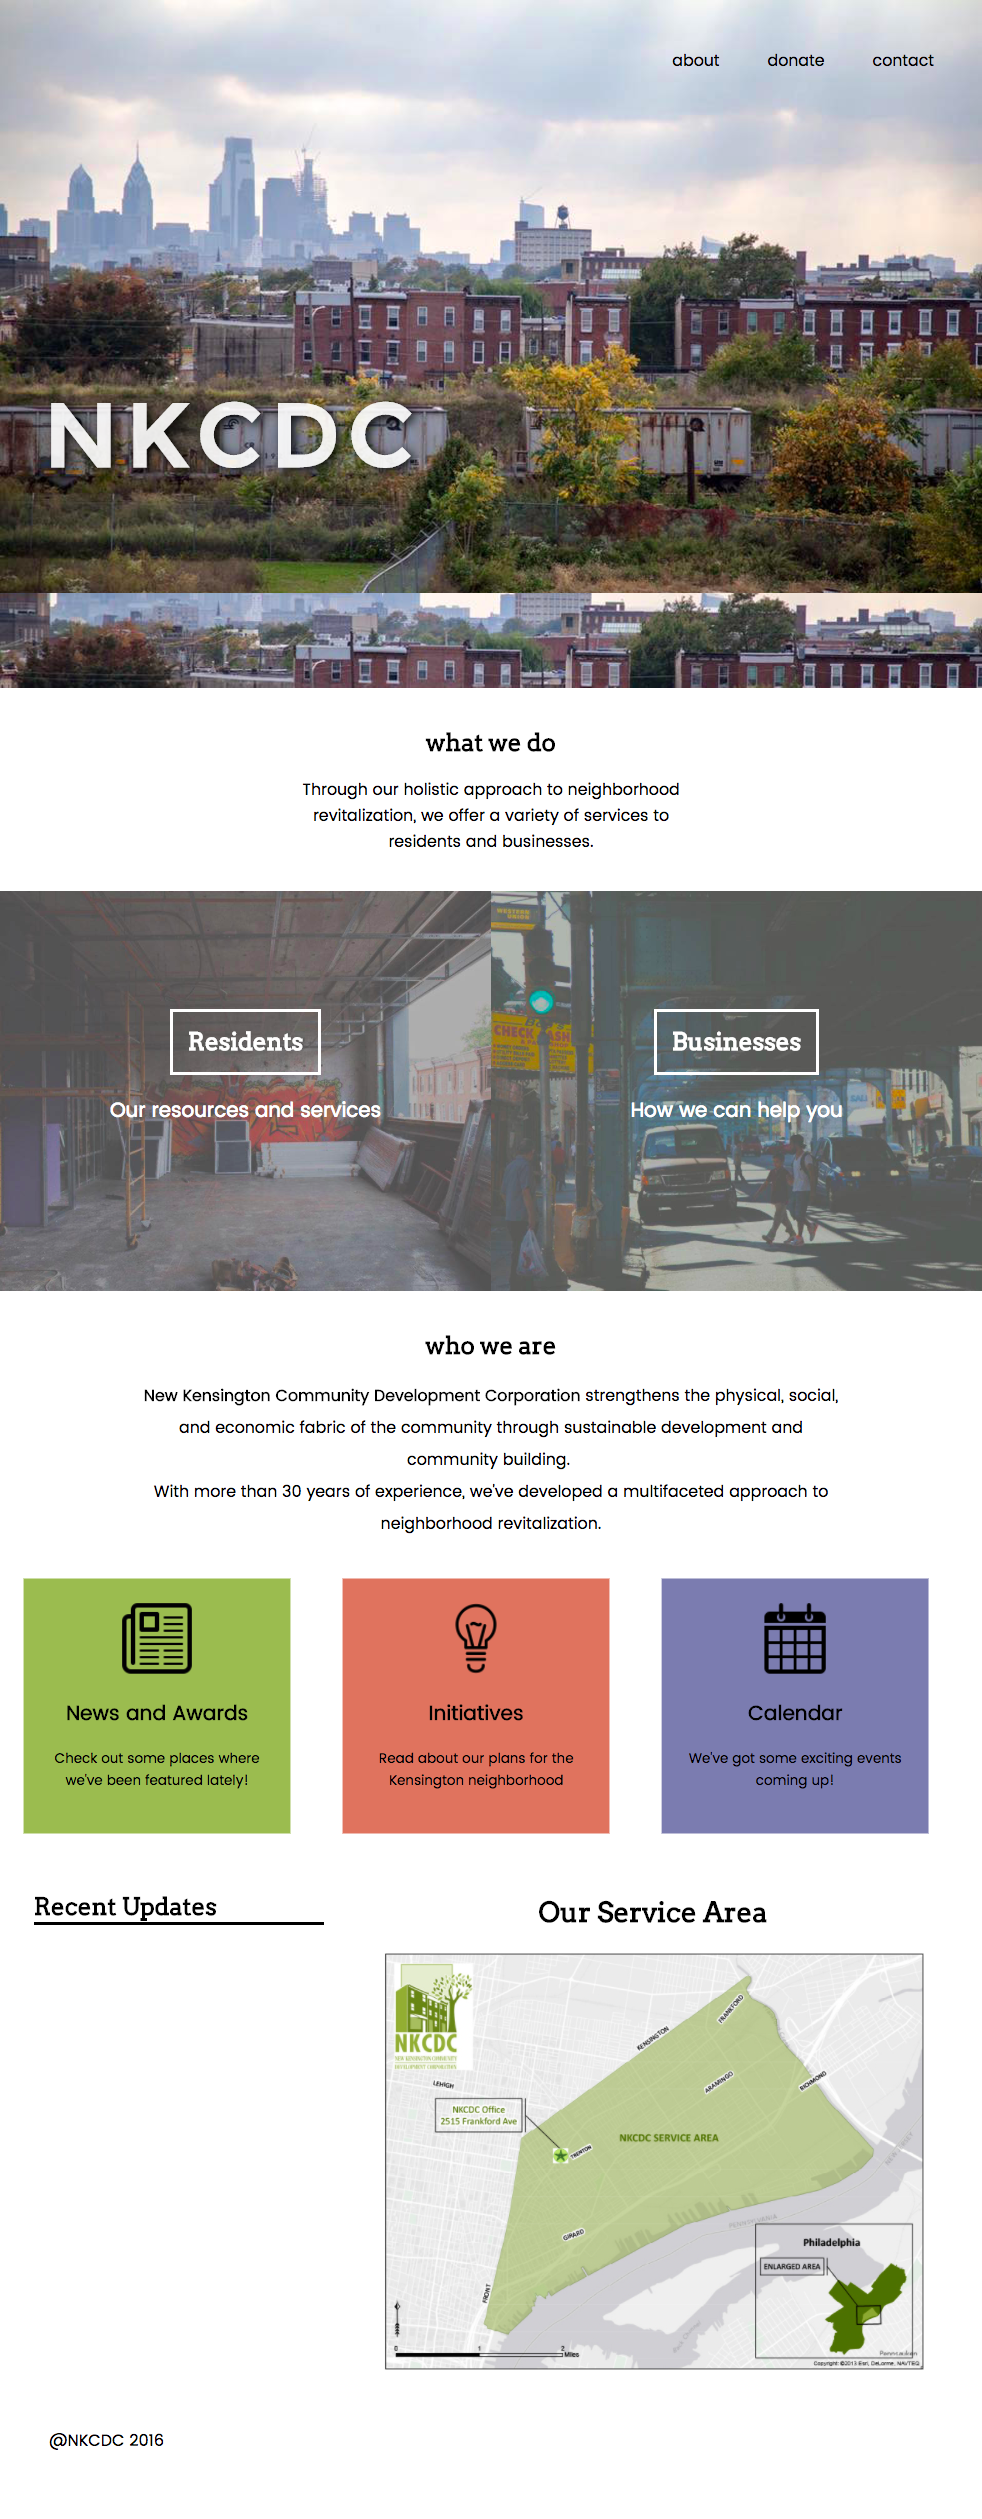
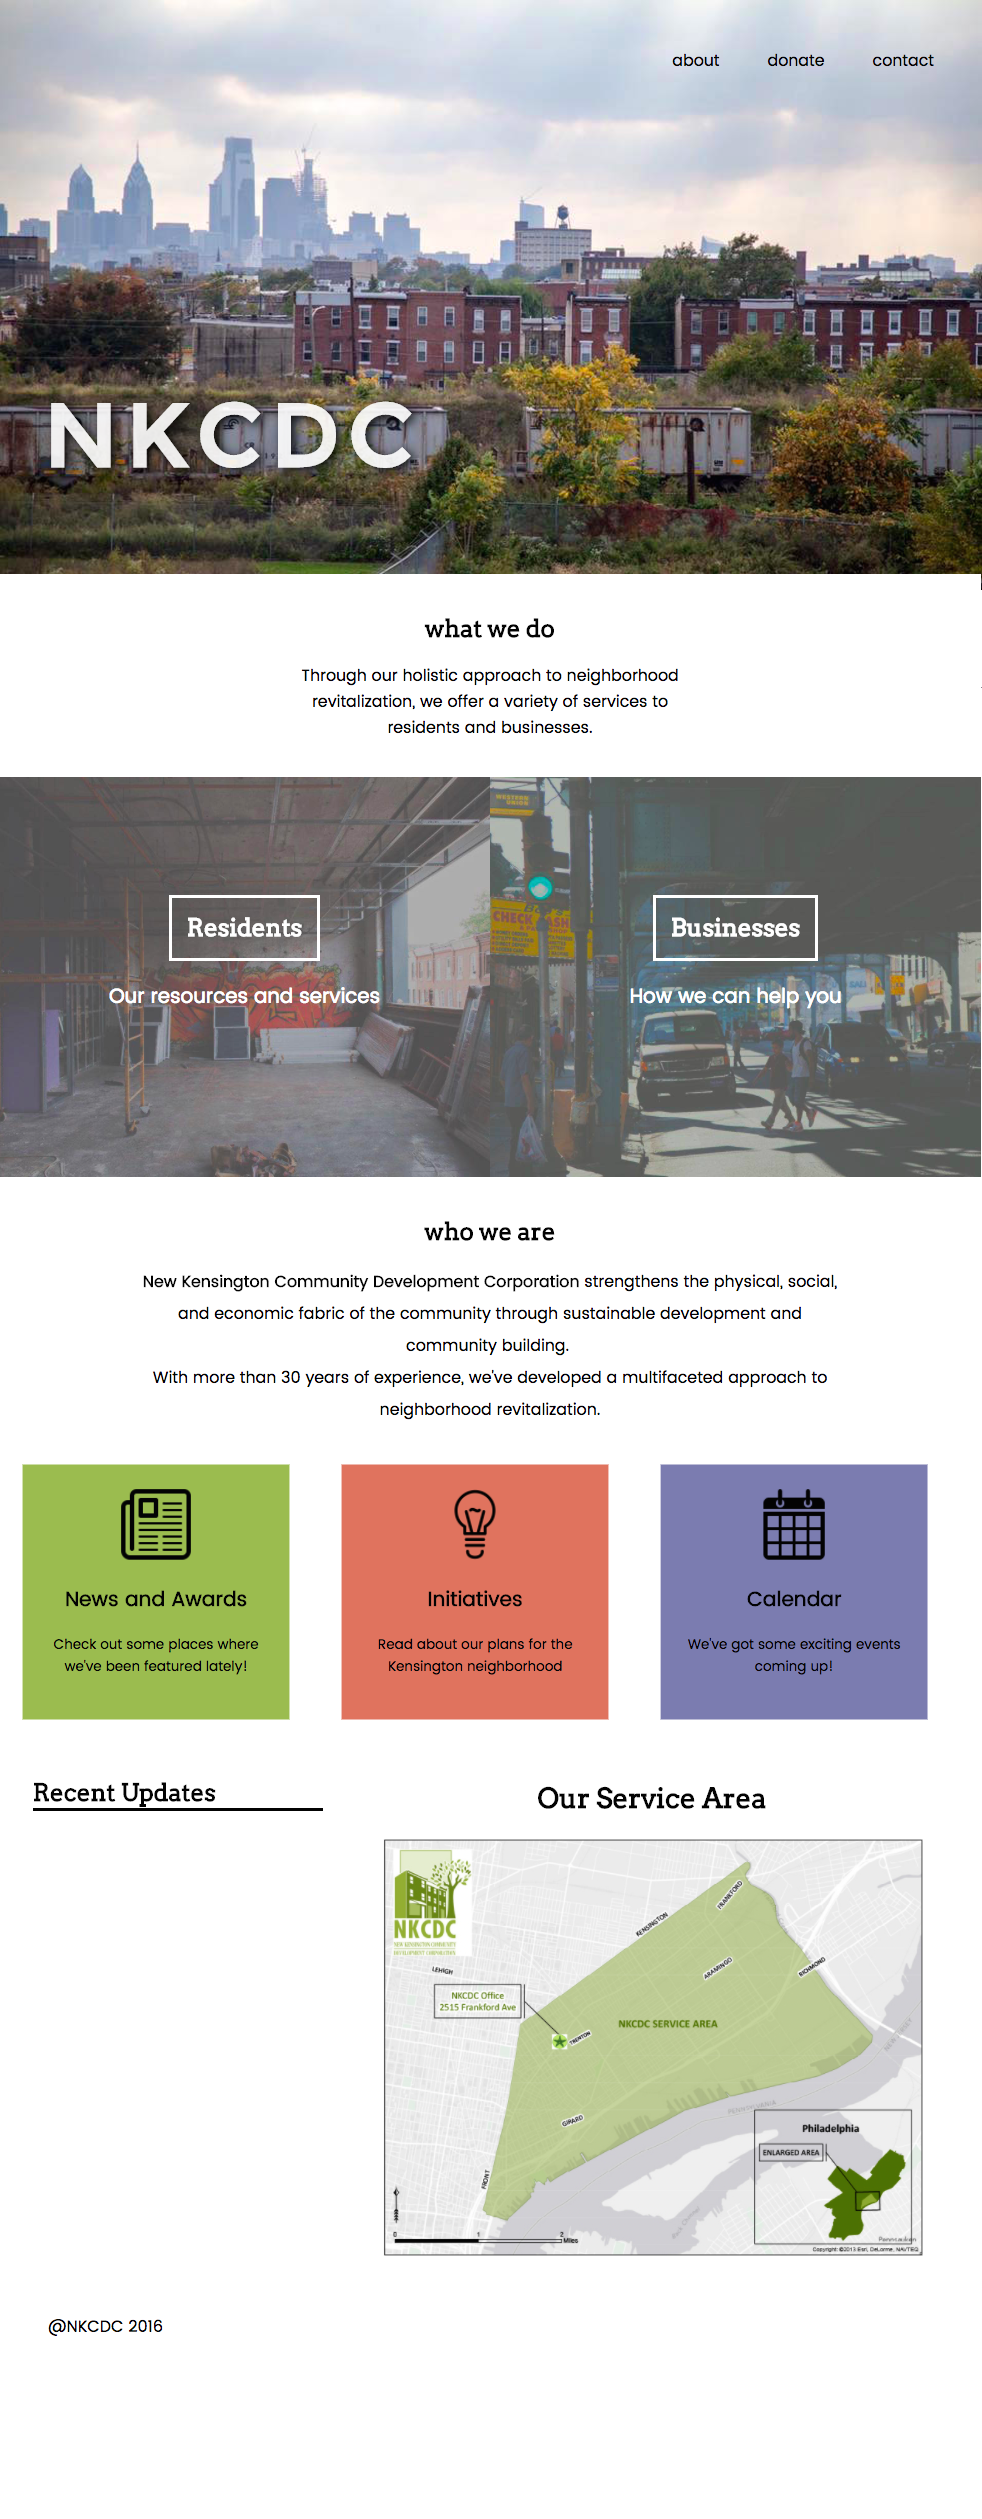
test

diff --git a/styles.css b/styles.css
@@ -12,18 +12,17 @@ html, body{
     width: 100%;
     margin: 0 auto;
     position: relative;
-}
+  }
+
 
 .navigation{
-  height: 75vw;
   background: url("https://raw.githubusercontent.com/shawnsheu/shawnsheu.github.io/master/wood.jpg");
-  margin-top: -100px;
-  padding: 0px;
-  width: 100%;
   background-attachment: fixed;
-background-position: top center;
+background-position:  center;
 background-repeat: no-repeat;
 background-size: cover;
+height: 75vw;
+margin-top: -15%;
 }
 
 .nav li a:hover{
@@ -34,13 +33,13 @@ background-size: cover;
 
 .nav {
   list-style: none;
-  background-color: #d7a350
- ;
+  background-color: #d7a350;
   text-align: center;
-  z-index: 2;
+  z-index: 0;
   width: 100%;
   height: 10vw;
   margin: 0;
+  box-shadow: 0px 1px 20px rgba(1, 1, 4, 0.51);
 }
 
 .nav li {
@@ -66,11 +65,12 @@ text-shadow: 2px 2px 10px black;
   position: relative;
   color: white;
   text-align: center;
+  vertical-align: middle;
   /*font-family: 'Open Sans', sans-serif;*/
   font-family: 'Cedarville Cursive', cursive;
   /*font-size: 2.074em*/
   font-size: 3.5vw;
-  padding-top: 23vw;
+  padding-top: 30%;
 left: 0;
 right: 0;
 }
@@ -83,7 +83,6 @@ right: 0;
   weight: bold;
   font-family: 'Bungee Shade', cursive;
   padding-bottom: 5%;
-  padding-top: %;
   line-height: .3;
 left:0;
 right:0;

diff --git a/index.html b/index.html
@@ -28,15 +28,13 @@
 
 
 </div>
-
+</div>
   <ul class="nav">
     <li><a href="#about">about</a></li>
     <li><a href="#portfolio">portfolio</a></li>
     <li><a href="#contact">contact</a></li>
   </ul>
 
-
-</div>
 
 <div id="about">
   <div id="eh"></div>
